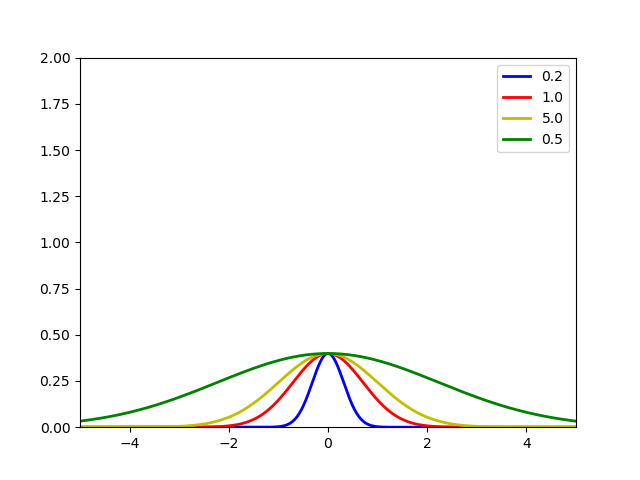
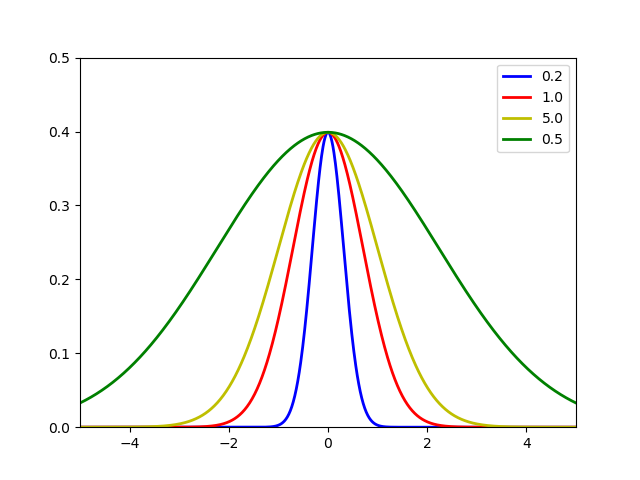
rescaled figure

diff --git a/wiki.py b/wiki.py
@@ -16,7 +16,7 @@ def main():
         ax.plot(x, gauss, color, linewidth=2)
 
     plt.xlim(-5, 5)
-    plt.ylim(0, 2)
+    plt.ylim(0, 0.5)
     plt.legend(['0.2', '1.0', '5.0', '0.5'], loc='best')
     plt.show()
 
